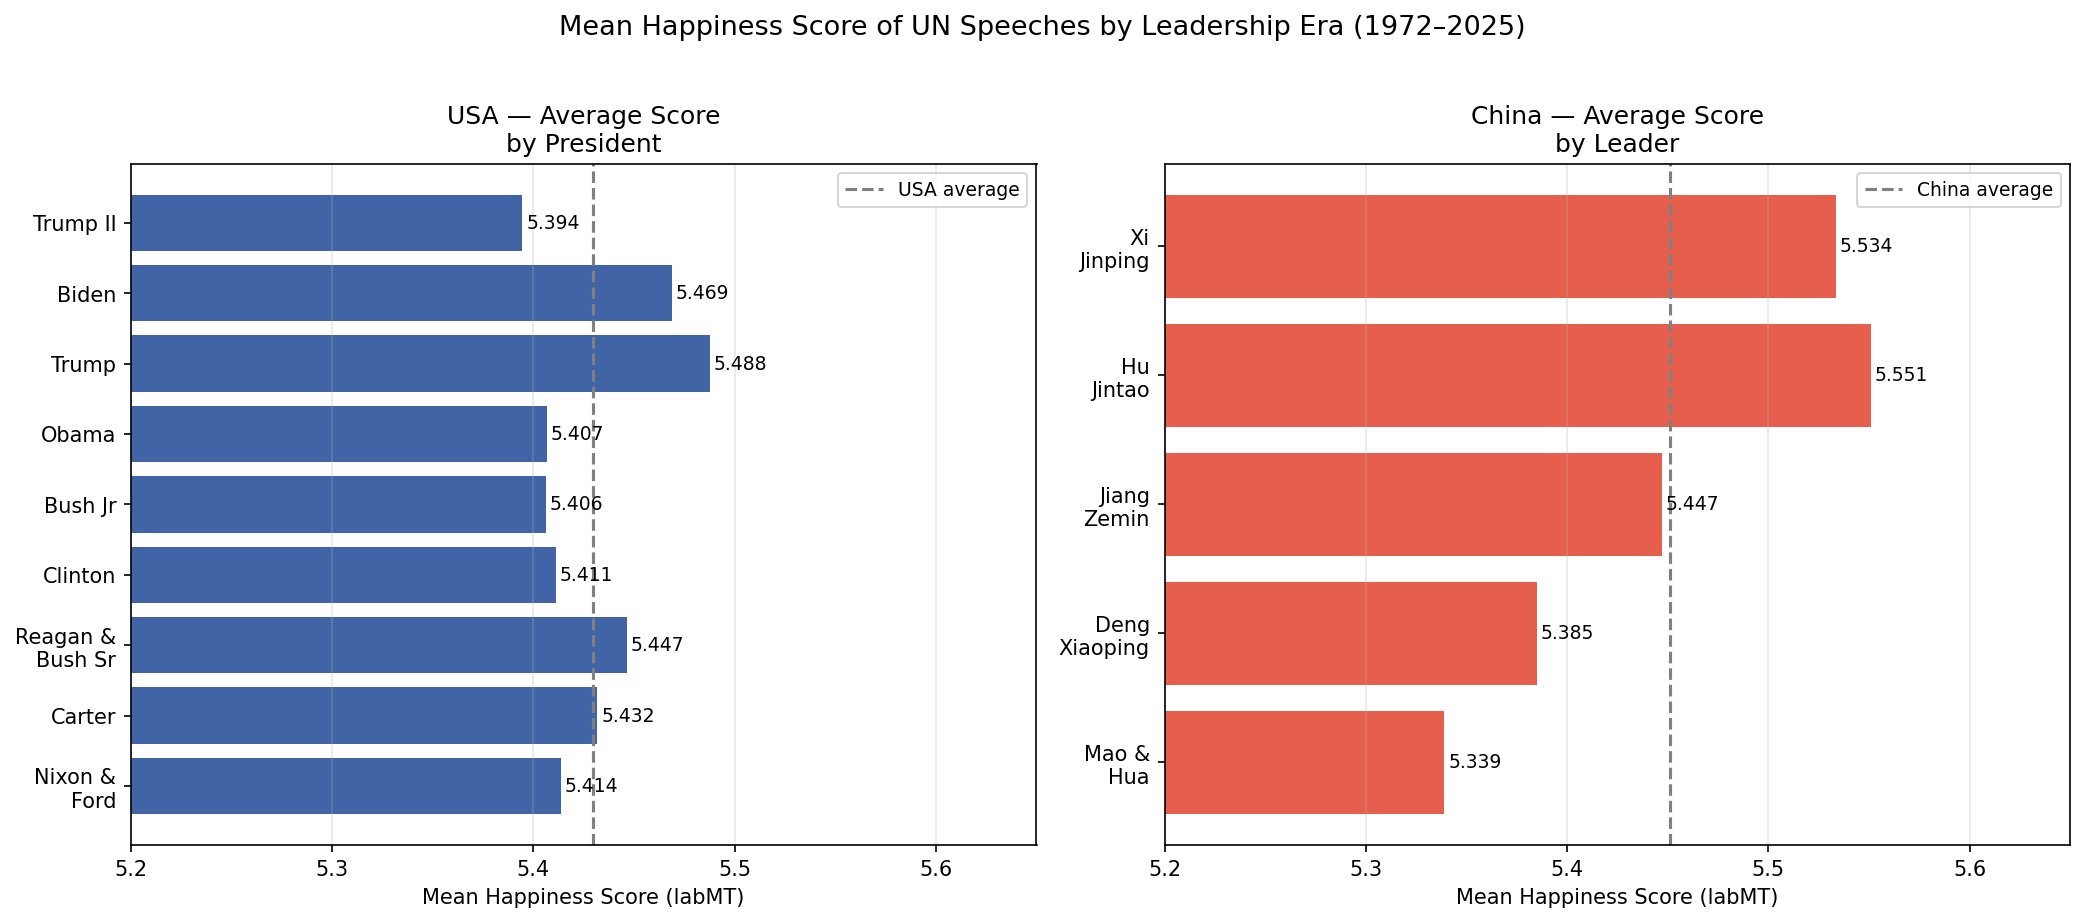
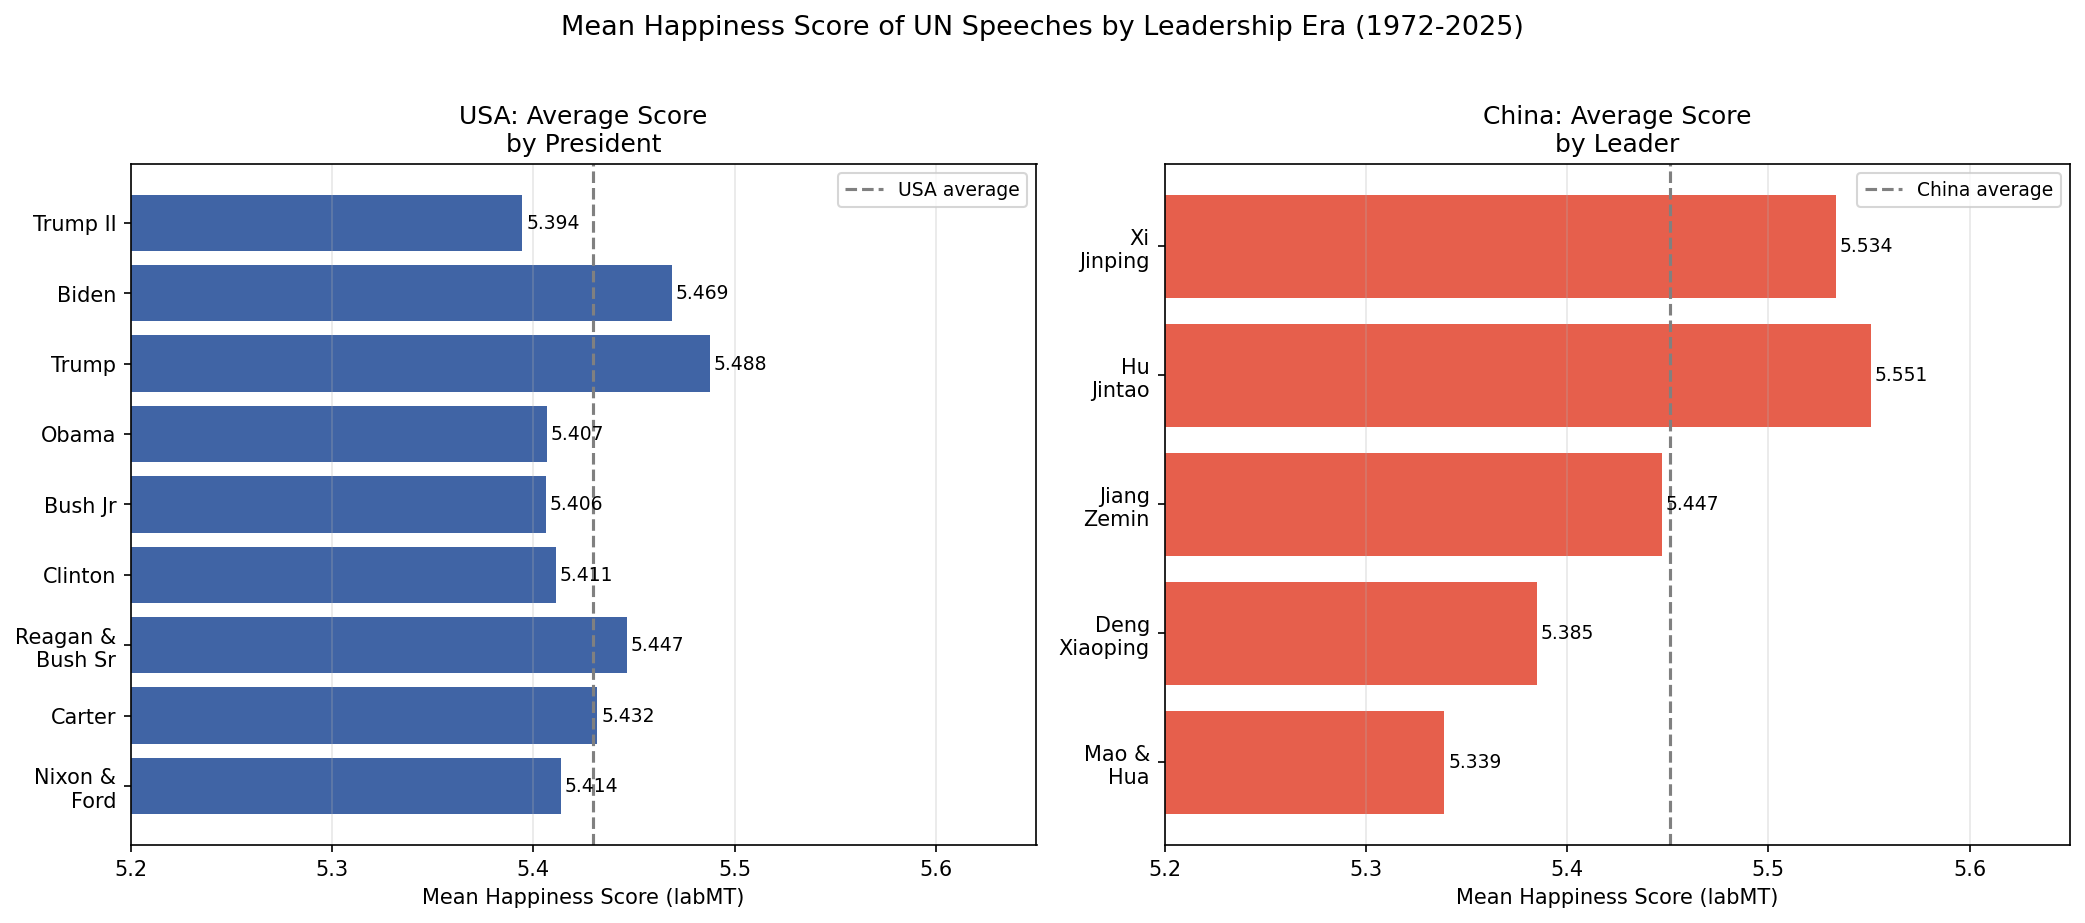
update leaders chart

Changed region(s): [[0.2494, 0.0, 0.717, 0.0607], [0.717, 0.1213, 0.8417, 0.1517], [0.2182, 0.1213, 0.3429, 0.1517]]

diff --git a/src/leaders.py b/src/leaders.py
@@ -54,7 +54,7 @@ usa_vals = [x[1] for x in usa_scores]
 bars1 = ax1.barh(usa_names, usa_vals, color="#003087", alpha=0.75)
 ax1.set_xlim(5.2, 5.65)
 ax1.set_xlabel("Mean Happiness Score (labMT)", fontsize=10)
-ax1.set_title("USA — Average Score\nby President", fontsize=12)
+ax1.set_title("USA: Average Score\nby President", fontsize=12)
 ax1.axvline(x=sum(usa_vals)/len(usa_vals), color="gray",
             linewidth=1.5, linestyle="--", label="USA average")
 ax1.legend(fontsize=9)
@@ -70,7 +70,7 @@ china_vals = [x[1] for x in china_scores]
 bars2 = ax2.barh(china_names, china_vals, color="#DE2910", alpha=0.75)
 ax2.set_xlim(5.2, 5.65)
 ax2.set_xlabel("Mean Happiness Score (labMT)", fontsize=10)
-ax2.set_title("China — Average Score\nby Leader", fontsize=12)
+ax2.set_title("China: Average Score\nby Leader", fontsize=12)
 ax2.axvline(x=sum(china_vals)/len(china_vals), color="gray",
             linewidth=1.5, linestyle="--", label="China average")
 ax2.legend(fontsize=9)
@@ -80,7 +80,7 @@ for bar, val in zip(bars2, china_vals):
     ax2.text(val + 0.002, bar.get_y() + bar.get_height()/2,
              f"{val:.3f}", va="center", fontsize=9)
 
-fig.suptitle("Mean Happiness Score of UN Speeches by Leadership Era (1972–2025)",
+fig.suptitle("Mean Happiness Score of UN Speeches by Leadership Era (1972-2025)",
              fontsize=13, y=1.02)
 
 plt.tight_layout()
